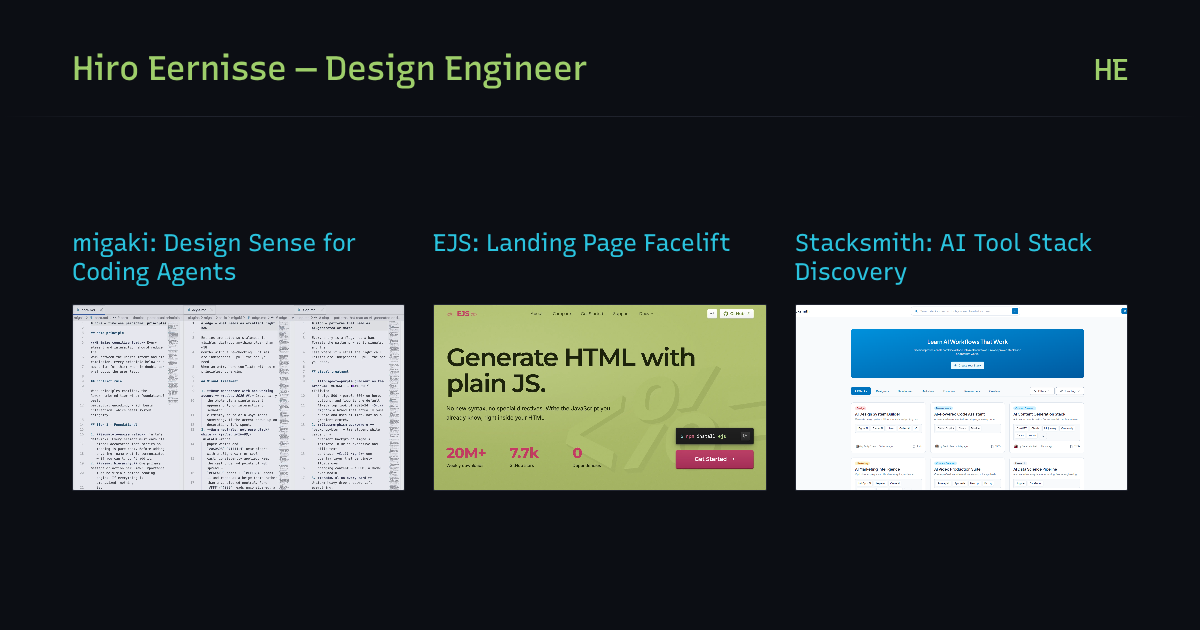
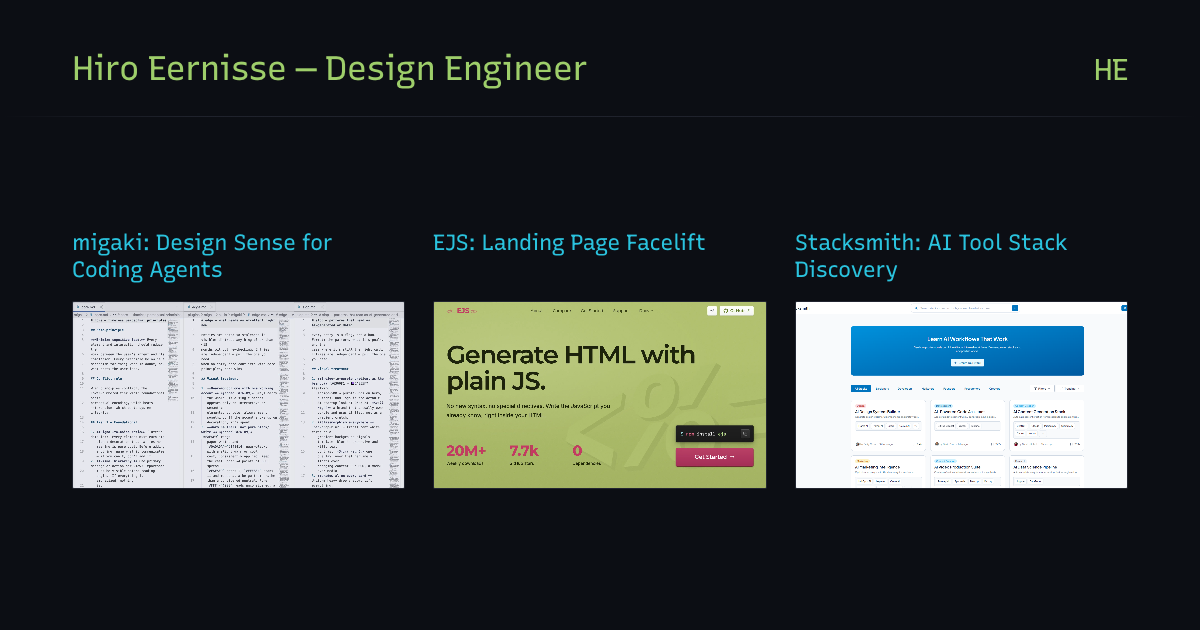
Masthead to 400, titles to 22, and retract the reason 22 was ruled out
THE PREVIOUS COMMIT ARGUED ITSELF INTO A CONSTRAINT THAT DOES NOT EXIST.
It called 24px the floor because 22 would pull Stacksmith back onto one
line and take the frames off their shared baseline. The first half is
probably true and the second does not follow from it: .meta carries a
min-height, so every card in the row is that tall whether its title wraps
to one line or two. Making the wrap stop mattering is the entire job of
the reserve — it was added two commits ago for exactly this — so citing
the wrap as a limit was reasoning against the mechanism already in place.
Nothing about the baseline constrains this size; the floor is legibility
at feed width, and it sits lower than 22. The comment now carries the
retraction next to the value so the bad argument is not re-derived.

The wrap that WOULD break alignment is a third line, which overflows the
reserve rather than sitting inside it — and shrinking type moves away
from that, never toward it.

So: titles 24 → 22, reserve 59 → 54, both derived rather than picked.

The masthead goes 500 → 400, --weight-ui. It now matches the weight of
the project titles under it, which is the point rather than a collision:
the masthead is ranked by size and by carrying the only green on the
card, and no longer needs stroke to outrank the work.

300 is the next token down and worth naming as the practical floor. The
asset is recompressed at feed width and the dark theme's body weight is
[…]

diff --git a/design/og/card-b.html b/design/og/card-b.html
@@ -61,22 +61,32 @@
 			   90px → 64px with the years gone (2026-09-01, Hiro): the reserve is
 			   two title lines and nothing else now, so it tracks the title's own
 			   line-height rather than carrying a dead 26px where the numeral was.
-			   → 59px when the title stepped 26px → 24px the same day. THIS VALUE
-			   IS DERIVED, not chosen: it is 2 × font-size × line-height, and if
-			   either moves again it has to be recomputed or the one-line card
-			   floats its frame off the row's baseline again. */
+			   → 59px at a 24px title, → 54px at 22px. THIS VALUE IS DERIVED, not
+			   chosen: it is 2 × font-size × line-height, and it has to be
+			   recomputed whenever either moves. Too SMALL and a two-line title
+			   overflows it, which puts that card's frame below its neighbours';
+			   too large and every frame sits lower than it needs to. */
 			.meta {
 				display: flex;
 				flex-direction: column;
-				min-height: 59px;
+				min-height: 54px;
 			}
 
-			/* 24px, down from 26 (2026-09-01, Hiro). The wrap is unchanged — EJS
-			   still takes one line, migaki and Stacksmith still take two — which
-			   is what makes this a safe step: 22 would pull Stacksmith back onto
-			   one line and break the row's shared baseline. */
+			/* 26 → 24 → 22px (2026-09-01, Hiro, twice).
+			   A NOTE ON THE 24px STEP RETRACTS ITS OWN REASONING: it claimed 22
+			   was unavailable because it would pull Stacksmith onto one line and
+			   take the frames off their shared baseline. The second half does not
+			   follow from the first. .meta carries a min-height, so every card is
+			   that tall whether its title wraps to one line or two — the reserve
+			   is the mechanism that makes the wrap not matter, which was the point
+			   of adding it. Nothing about the row's baseline constrains this size.
+			   The real floor is legibility at feed width, and it is lower than 22.
+
+			   The one wrap that WOULD break alignment is a third line, since that
+			   exceeds the reserve rather than sitting inside it — and shrinking
+			   the type moves away from that, never toward it. */
 			.title {
-				font-size: 24px;
+				font-size: 22px;
 				font-weight: 400;
 				line-height: 1.22;
 				letter-spacing: -0.02em;
@@ -116,10 +126,22 @@
 			   that weight was doing a job here it doesn't have to — two letters
 			   need the extra stroke to read as a mark, a thirty-one character
 			   line does not, and at 34px the heavier cut was closing up the
-			   counters in the descriptor. */
+			   counters in the descriptor.
+
+			   600 → 500 → 400, and each step lands on a token rather than a notch:
+			   400 is --weight-ui in the dark theme. It is now the same weight as
+			   the project titles below it, which is fine and arguably the point —
+			   the masthead is ranked by SIZE and COLOUR (34px, --dye-name) and no
+			   longer leans on stroke to outrank the work.
+
+			   300 (--weight-body) is the next token down and is the floor worth
+			   knowing about: this asset is recompressed at feed width, and the
+			   dark theme's own body weight is already the lightest thing the
+			   site draws. Below 400 the green starts to thin against the paper
+			   at 440px rather than simply looking lighter. */
 			.mark {
 				font-size: 34px;
-				font-weight: 500;
+				font-weight: 400;
 				letter-spacing: -0.02em;
 				color: var(--dye-name);
 			}
@@ -137,7 +159,7 @@
 			   is that these two move together; only their size ranks them. */
 			.mark-right {
 				font-size: 30px;
-				font-weight: 500;
+				font-weight: 400;
 				letter-spacing: -0.025em;
 				color: var(--dye-name);
 			}
